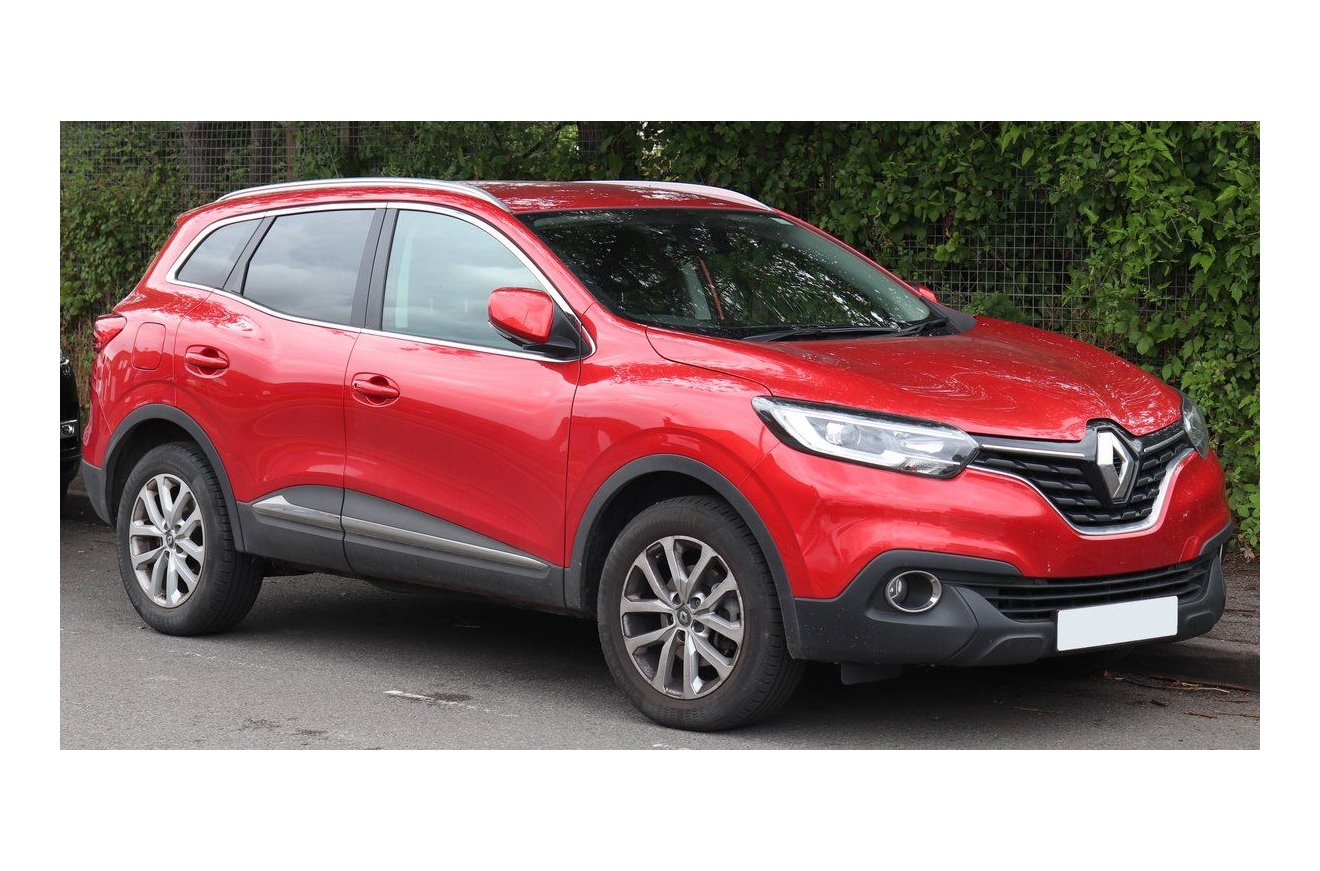
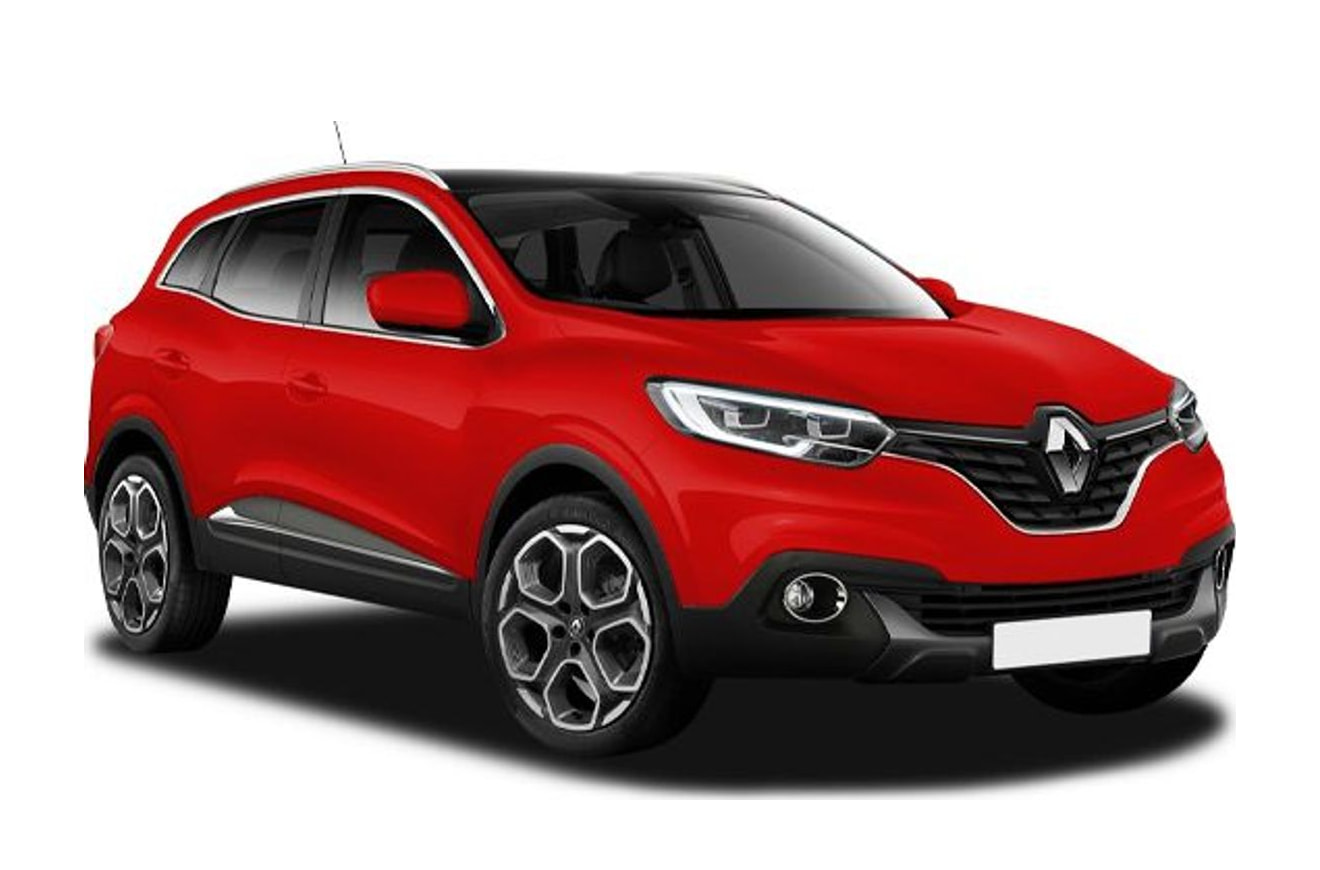
Fleet: replace 4 Wikipedia street photos with LocalRent showroom heroes
Renault Kadjar (red), Dacia Sandero Stepway (blue) and Citroen C4 Picasso
(white) now use LocalRent press-catalog shots, normalized to 1320x870
white-bg with wheel-anchored composite to match Yaris/Golf/Stonic style.

VW Touran dropped (not in LocalRent's MNE inventory at any res); replaced
in the homepage Fleet grid with Renault Megane (compact). Megane hero
sourced from the existing mch-next press shot (1200x800 white-bg).

Adds scripts/fetch-localrent-showroom-v2.mjs (iterates ALL listings per
model and picks the biggest cars/image_titles/.../original/ press image)
and scripts/swap-color-variants.mjs for one-off colour swaps.

diff --git a/src/App.jsx b/src/App.jsx
@@ -496,7 +496,7 @@ const HOMEPAGE_BOOKING_CARS = [
   { id: 74121,  name: 'Peugeot 2008',         category: 'SUV',       lrClass: 'suv',     image: '/img/fleet/peugeot-2008.jpg' },
   { id: 52579,  name: 'Renault Kadjar',       category: 'SUV',       lrClass: 'suv',     image: '/img/fleet/renault-kadjar.jpg' },
   { id: 84393,  name: 'Dacia Sandero Stepway',category: 'Crossover', lrClass: 'suv',     image: '/img/fleet/dacia-sandero-stepway.jpg' },
-  { id: 2621,   name: 'VW Touran',            category: 'Van',       lrClass: 'minivan', image: '/img/fleet/vw-touran.jpg' },
+  { id: 60069,  name: 'Renault Megane',       category: 'Compact',   lrClass: 'compact', image: '/img/fleet/renault-megane.jpg' },
   { id: 8860,   name: 'Citroen C4 Picasso',   category: 'MPV',       lrClass: 'family',  image: '/img/fleet/citroen-c4-picasso.jpg' },
 ];
 
